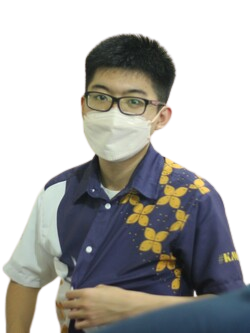
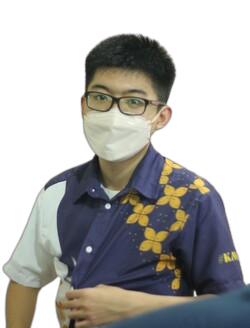
credits update

diff --git a/credits.html b/credits.html
@@ -343,6 +343,7 @@
         }
         figure.snip1033:hover img,
         figure.snip1033.hover img {
+            margin-top: 5px;
             opacity: 1;
             /* filter: grayscale(0.4) hue-rotate(80deg); */
             -webkit-transform: translate(0%, 0px);
@@ -350,13 +351,13 @@
         }
         figure.snip1033:hover figcaption .left h3,
         figure.snip1033.hover figcaption .left h3 {
-            opacity: 1;
+            opacity: 0.6;
             -webkit-transform: translate(0%, 0px);
             transform: translate(0%, 0px);
         }
         figure.snip1033:hover figcaption .right h3,
         figure.snip1033.hover figcaption .right h3 {
-            opacity: 1;
+            opacity: 0.6;
             -webkit-transform: translate(0%, 0px);
             transform: translate(0%, 0px);
         }
@@ -369,19 +370,19 @@
         }
         .michael{
             object-position: 0px -10px ;
-            transform:scale(1.06)
+            transform:scale(0.63)
         }
         .sidi{
             object-position: -10px -10px;
-            transform:scale(1.06)
+            transform:scale(0.63)
         }
         .vincent{
             object-position: -10px -10px;
-            transform:scale(1.06)
+            transform:scale(0.65)
         }
         .nico{
-            object-position: -10px -10px;
-            transform:scale(1.06)
+            object-position: -10px 10px;
+            transform:scale(0.60)
         }
         figure.snip1033 {
             border-radius: 10px;
@@ -449,7 +450,7 @@
                     </figure>
                         <!-- Nico Samuelson -->
                     <figure class="snip1033" data-aos="fade-up" data-aos-offset="300">
-                        <img src="assets/pictures/sidi.png" class="nico foto" alt="Nico"/>
+                        <img src="assets/pictures/nicos.png" class="nico foto" alt="Nico"/>
                             <figcaption>
                                 <div class="left">
                                 <h3>Nico Samuelson Tjandra</h3>

diff --git a/index.html b/index.html
@@ -124,7 +124,10 @@
             background-color: transparent;
             transition: .5s ease;
         }
-    
+        
+        #insert{
+            
+        }
         .navbar {
             background-color: transparent;
             transition: all .5s ease;
